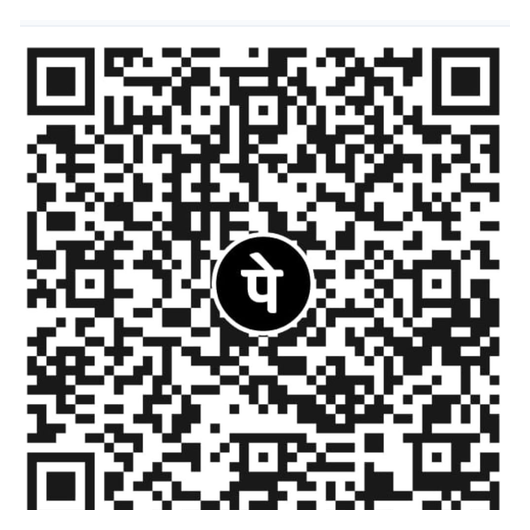
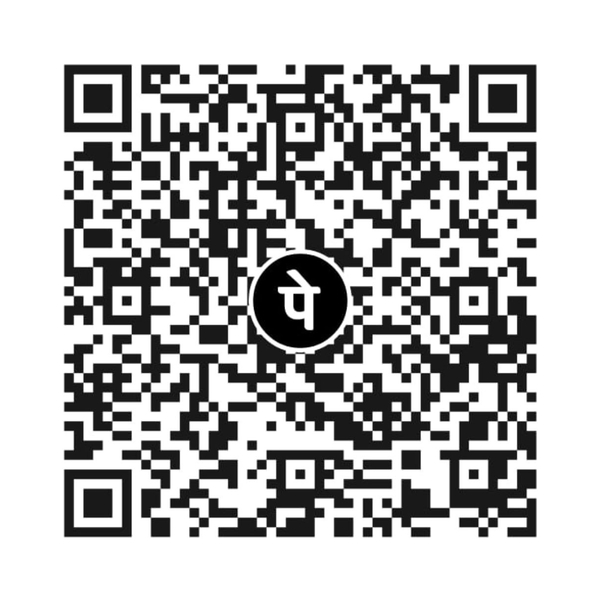
Fix scannable payment QR code with intact finder squares, generous quiet zone, and toggle mode

diff --git a/src/components/deposit/DepositPage.tsx b/src/components/deposit/DepositPage.tsx
@@ -76,8 +76,10 @@ export const DepositPage: React.FC = () => {
 
   // Instant image preloading for zero-latency switching
   useEffect(() => {
-    const imgAuto = new Image();
-    imgAuto.src = '/deposit_qr.png?v=phonepe_khushi_v3_reload';
+    const imgClean = new Image();
+    imgClean.src = '/deposit_qr_clean.png?v=fixed_v5_scannable';
+    const imgOfficial = new Image();
+    imgOfficial.src = '/deposit_qr.png?v=fixed_v5_scannable';
   }, []);
 
   // Filtered packages
@@ -506,7 +508,7 @@ export const DepositPage: React.FC = () => {
                       <div className="flex items-center gap-3 min-w-0">
                         <div className="w-14 h-14 rounded-xl bg-white p-1 flex-shrink-0 border border-amber-400 shadow flex items-center justify-center">
                           <img 
-                            src="/deposit_qr_clean.png?v=clean_large_v2" 
+                            src="/deposit_qr_clean.png?v=fixed_v5_scannable" 
                             alt="Payment QR" 
                             className="w-full h-full object-contain"
                           />
@@ -1120,9 +1122,35 @@ export const DepositPage: React.FC = () => {
                       </span>
                     </div>
 
+                    {/* QR View Mode Toggle Tabs */}
+                    <div className="flex items-center gap-1.5 bg-slate-100 p-1 rounded-xl border border-slate-200 text-[11px] font-bold font-outfit">
+                      <button
+                        type="button"
+                        onClick={() => setQrViewMode('dynamic')}
+                        className={`flex-1 py-1.5 rounded-lg transition-all text-center cursor-pointer ${
+                          qrViewMode === 'dynamic'
+                            ? 'bg-[#FF6B00] text-white shadow-xs font-black'
+                            : 'text-slate-600 hover:text-slate-900 bg-white/70'
+                        }`}
+                      >
+                        ⚡ Zoomed QR (Best for Scanning)
+                      </button>
+                      <button
+                        type="button"
+                        onClick={() => setQrViewMode('official')}
+                        className={`flex-1 py-1.5 rounded-lg transition-all text-center cursor-pointer ${
+                          qrViewMode === 'official'
+                            ? 'bg-[#0B1528] text-white shadow-xs font-black'
+                            : 'text-slate-600 hover:text-slate-900 bg-white/70'
+                        }`}
+                      >
+                        🏦 Official PhonePe Card
+                      </button>
+                    </div>
+
                     <div className="relative mx-auto w-64 h-64 sm:w-72 sm:h-72 flex items-center justify-center p-3 rounded-2xl border-2 border-slate-100 bg-white shadow-inner">
                       <img 
-                        src="/deposit_qr_clean.png?v=clean_large_v3" 
+                        src={qrViewMode === 'official' ? '/deposit_qr.png?v=fixed_v5_scannable' : '/deposit_qr_clean.png?v=fixed_v5_scannable'} 
                         alt="EasyBase Payment QR" 
                         loading="eager"
                         decoding="sync"
@@ -1137,8 +1165,8 @@ export const DepositPage: React.FC = () => {
 
                     <div className="flex items-center justify-center pt-0.5">
                       <a
-                        href="/deposit_qr_clean.png?v=clean_large_v3"
-                        download="easybase_point_payment_qr.png"
+                        href={qrViewMode === 'official' ? '/deposit_qr.png?v=fixed_v5_scannable' : '/deposit_qr_clean.png?v=fixed_v5_scannable'}
+                        download={qrViewMode === 'official' ? 'easybase_phonepe_official_qr.png' : 'easybase_point_payment_qr.png'}
                         className="text-xs font-black text-[#FF6B00] hover:text-[#e05e00] flex items-center gap-1.5 cursor-pointer bg-orange-50 hover:bg-orange-100 px-3.5 py-1.5 rounded-xl border border-orange-200 transition active:scale-95 font-outfit"
                       >
                         <Download className="w-3.5 h-3.5" />
